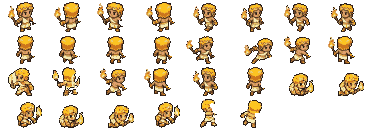
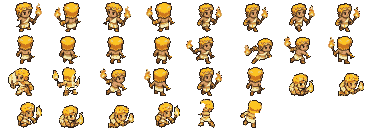
Stop Cedalion looking back every few steps
The artist drew the front poses facing different ways: the first idle and
the first walk frame look left, the rest look right. The walk now leaves
out the left-looking frame, the right-looking idle is the idle and the
other is his glance back, and nothing is mirrored, so the torch stays in
one hand. The sheet's JSON records each frame's facing, and a test checks
every clip but the glance back faces the way he moves.

diff --git a/tools/process_sheet.py b/tools/process_sheet.py
@@ -45,19 +45,22 @@ COLS = 8
 # ---------------------------------------------------------------- Cedalion's hand-made sheet
 
 # (box in the sheet, mirror?, kind) - boxes found by scanning the sheet; mirror normalises facing:
-# front views must look toward screen-right (SE) and back views away up-right (NE). The sheet's
-# front idle and walk poses look toward screen-LEFT (eyes on the left of the face, the ear on the
-# right), so they are mirrored, which also puts the sword on the same side as in the attack
-# frames. Left unmirrored (as on 2026-10-22 morning) he walked one way while looking the other.
+# front views must look toward screen-right (SE) and back views away up-right (NE). The artist was
+# not consistent: of the front poses, the second idle and the last three walk frames look right
+# (ear on the left of the face, eyes right of centre) but the first idle and the first walk frame
+# look left. Mirroring those two would swap the torch to the other hand mid-step, so the walk
+# leaves the first frame out and the left-looking idle is only his glance back ("look"). FACES
+# records which way each pose looks as drawn; the sheet's JSON carries it (after mirroring) so a
+# test can check that every clip faces the way he moves.
 BOXES = {
-    "idle_f": ((60, 50, 280, 222), True, "stand"),
-    "idle_f2": ((380, 50, 590, 222), True, "stand"),
+    "idle_f": ((60, 50, 280, 222), False, "stand"),
+    "idle_f2": ((380, 50, 590, 222), False, "stand"),
     "idle_b": ((640, 50, 880, 222), False, "stand"),
     "idle_b2": ((950, 50, 1190, 222), False, "stand"),
-    "walk_f0": ((15, 275, 182, 429), True, "stand"),
-    "walk_f1": ((191, 274, 320, 430), True, "stand"),
-    "walk_f2": ((327, 274, 458, 430), True, "stand"),
-    "walk_f3": ((462, 274, 596, 430), True, "stand"),
+    "walk_f0": ((15, 275, 182, 429), False, "stand"),
+    "walk_f1": ((191, 274, 320, 430), False, "stand"),
+    "walk_f2": ((327, 274, 458, 430), False, "stand"),
+    "walk_f3": ((462, 274, 596, 430), False, "stand"),
     "walk_b0": ((638, 276, 780, 429), True, "stand"),
     "walk_b1": ((775, 276, 912, 429), True, "stand"),
     "walk_b2": ((912, 276, 1051, 430), True, "stand"),
@@ -66,6 +69,16 @@ BOXES = {
     "atk_f1": ((387, 493, 536, 641), False, "stand"),
     "atk_f2": ((684, 492, 870, 640), False, "stand"),
     "atk_b": ((978, 487, 1163, 640), False, "stand"),
+}
+
+# Which way each pose looks as drawn (before mirroring), seen from the front or the back.
+FACES = {
+    "idle_f": "left", "idle_f2": "right", "idle_b": "right", "idle_b2": "right",
+    "walk_f0": "left", "walk_f1": "right", "walk_f2": "right", "walk_f3": "right",
+    "walk_b0": "left", "walk_b1": "left", "walk_b2": "left", "walk_b3": "left",
+    "atk_f0": "right", "atk_f1": "right", "atk_f2": "right", "atk_b": "right",
+    "roll0": "right", "roll1": "right", "roll2": "right",
+    "block_f": "left", "block_b": "left", "hurt_f": "left", "hurt_b": "right",
 }
 
 # The sword, in sheet pixels before mirroring: the blade's tip and the centre of its crossguard
@@ -110,12 +123,12 @@ BOXES_V2 = {
     "roll0": ((161, 641, 229, 707), False, "stand"),
     "roll1": ((266, 638, 338, 705), False, "stand"),
     "roll2": ((383, 635, 454, 705), False, "stand"),
-    # the front block looks left like the first sheet's front views, so it is mirrored too
+    # the front block looks left, so it is mirrored to face the way he moves
     "block_f": ((698, 626, 771, 704), True, "stand"),
     # the back views hold the sword on the left: mirrored to match the first sheet's back views
     "block_b": ((962, 628, 1042, 704), True, "stand"),
-    # the flinch already holds the sword on our right, like the (mirrored) front views
-    "hurt_f": ((537, 779, 608, 862), False, "stand"),
+    # the flinch looks a little left, with the sword on our right: mirrored like the block
+    "hurt_f": ((537, 779, 608, 862), True, "stand"),
     "hurt_b": ((609, 778, 694, 854), False, "stand"),
 }
 SWORDS_V2 = {
@@ -142,10 +155,12 @@ SHEET_V2 = dict(
 # Animation tags: name -> (frame keys, ms per frame). Facing suffix: _se front, _ne back; the game
 # mirrors them for _sw / _nw.
 TAGS = [
-    ("idle_se", ["idle_f"], 400), ("idle_ne", ["idle_b"], 400),
-    ("look_se", ["idle_f2"], 400), ("look_ne", ["idle_b2"], 400),
-    # stride, pass, stride, pass: two footfalls per cycle, in step with the footstep sounds
-    ("walk_se", ["walk_f2", "walk_f0", "walk_f3", "walk_f1"], 150),
+    # the right-looking idle; now and then he glances back over his shoulder (the left-looking one)
+    ("idle_se", ["idle_f2"], 400), ("idle_ne", ["idle_b"], 400),
+    ("look_se", ["idle_f"], 400), ("look_ne", ["idle_b2"], 400),
+    # stride, pass, stride, pass: two footfalls per cycle, in step with the footstep sounds (the
+    # first walk frame looks the other way, so the other pass frame is used twice)
+    ("walk_se", ["walk_f2", "walk_f1", "walk_f3", "walk_f1"], 150),
     ("walk_ne", ["walk_b1", "walk_b0", "walk_b3", "walk_b2"], 150),
     ("attack_se", ["atk_f0", "atk_f1", "atk_f2"], 100),
     ("attack_ne", ["atk_b"], 300),
@@ -162,7 +177,7 @@ CONFIGS = {
         source=GENERATED / "cedalion_friend_sheet.webp",
         boxes=BOXES, tags=TAGS, swords=SWORDS, arcs=ARCS, angle_from={**ANGLE_FROM, **ANGLE_FROM_V2},
         scale=0.19,  # sheet pixels -> game pixels (~26 px tall, the doc's 16x24 hero plus hair)
-        palette=22, background="paper", torch=True, stills=("idle_f", "idle_b"),
+        palette=22, background="paper", torch=True, stills=("idle_f2", "idle_b"), faces=FACES,
         more=[SHEET_V2],
     ),
 }
@@ -460,6 +475,7 @@ def flame_of(f: Image.Image, side=0):
 def process(name, cfg, preview=None):
     raw = {}
     hands = {}
+    mirrors = {}
     first = None
     # The main sheet, then any extra sheets ("more": their own source, boxes, swords, arcs and
     # scale) that add frames to the same set.
@@ -475,6 +491,7 @@ def process(name, cfg, preview=None):
             if part.get("enhance"):
                 cut = enhance(cut, *part["enhance"])
             tip, guard, hand = swords.get(key, (None, None, None))
+            mirrors[key] = mirror
             if mirror:
                 cut = cut.transpose(Image.FLIP_LEFT_RIGHT)
             bb = cut.getbbox()
@@ -544,6 +561,10 @@ def process(name, cfg, preview=None):
         if k in hands:
             hx, hy, angle = hands[k]
             entry["hand"] = {"x": round(hx - ax), "y": round(hy - ay), "angle": round(angle or 0.0)}
+        drawn = cfg.get("faces", {}).get(k)
+        if drawn:
+            mirrored = mirrors.get(k, False)
+            entry["faces"] = ("left" if drawn == "right" else "right") if mirrored else drawn
         frame_meta.append(entry)
 
     OUT.mkdir(parents=True, exist_ok=True)

diff --git a/docs/dev/POLISH.md b/docs/dev/POLISH.md
@@ -97,19 +97,22 @@ Getting the hackathon demo into shape by 17:00 IST. Log, newest last:
   and top untouched. Storeroom clutter, looks only and placed by hand against the walls
   (`Room.CLUTTER`): burlap grain sacks, plank crates, a coil of rope and spilled grain. Test:
   clutter stands on plain floor clear of cracks, doors, chests and marks. 209 tests pass.
-- 15:26 Bug (Sathvik: "when I move left the character also faces right"): the first sheet's front
-  idle and walk poses look screen-LEFT (eyes on the left of the face, the ear on the right), but
-  were used unmirrored as the screen-right views, so he walked one way looking the other and
-  turned round when he swung. They (and the front block) are mirrored again; every clip now holds
-  the sword on the side he faces. Test: every frame's sword hand is on the facing side and the
-  torch on the other; walking left mirrors the walk.
+- 15:26 Bug (Sathvik: "when I move left the character also faces right", then "he looks back
+  every few frames"): the artist drew the front poses inconsistently. The second idle and the
+  last three walk frames look right (ear on the left, eyes right of centre), but the first idle
+  and the first walk frame look left, so one frame in every step looked back. The walk now skips
+  the first frame (3, 2, 4, 2); the right-looking idle is the idle, and the left-looking one is
+  his occasional glance back. Nothing is mirrored, so the torch stays in one hand.
+  `tools/process_sheet.py` records each frame's facing (`FACES`, written to the JSON as "faces").
+  Test: every frame but the glance back faces the way he moves, the walk keeps the torch in one
+  hand, and walking left mirrors the walk.
 - Sky nits (a Sonnet screenshot tour of every room found them): far islands showed just over the
   back walls in four rooms (the pavilion island looked built on the storerooms' and cistern's
   walls), and Orion was hidden in the statue court and the star shrine. `Atmosphere.skyline()`
   projects the back walls' top edge to the screen; a far island that would peek eases up clear or
   sinks behind the walls, and Orion moves to the nearest open sky (up, then sideways, at 80% if
   tight) clear of the moon and the HUD. Test: from each room's north end Orion clears the walls
-  and no island rests on them. 229 tests pass.
+  and no island rests on them. 231 tests pass.
 
 ; stopped at about 55% of the 5-hour window)
 

diff --git a/AGENT2.md b/AGENT2.md
@@ -34,10 +34,11 @@ stable build: all tests pass.
    - Storeroom clutter, looks only, no collision (`Room.CLUTTER`: sacks, crates, rope,
      `floor_grain`).
 3. This push: two fixes.
-   - Facing bug: the first sheet's front idle and walk frames look screen-left, so they are
-     mirrored again (`BOXES` in `tools/process_sheet.py`). Every clip now holds the sword on the
-     side he faces. Don't un-mirror them: the morning's "walk animation is inverted" fix was the
-     cause.
+   - Facing bug: the artist drew the front poses facing different ways. `idle_f` and `walk_f0`
+     look left; `idle_f2` and `walk_f1`-`walk_f3` look right. Nothing is mirrored now. The walk is
+     `walk_f2, walk_f1, walk_f3, walk_f1`; `idle_se` is `idle_f2` and `look_se` (the glance back)
+     is `idle_f`. `FACES` in `tools/process_sheet.py` records each pose's facing and the JSON
+     carries it per frame ("faces"), so the test catches a left-facing frame in any clip but `look`.
    - Sky: `Atmosphere.skyline()` / `skyline_span()` / `unpeek()`. Far islands that would rest on
      the back walls lift clear or sink behind them; Orion moves to the nearest open sky and
      shrinks to 80% when it's tight. `NightSky.room` / `FarSky.room` are set in `dress()`.
@@ -45,7 +46,7 @@ stable build: all tests pass.
 
 ## Tests
 
-229 pass (`tests/run_tests.gd`). New tests: `test_cedalion_moves`,
+231 pass (`tests/run_tests.gd`). New tests: `test_cedalion_moves`,
 `test_cedalion_faces_where_he_walks`, `test_medallions_on_plain_floor` (also covers cracked walls
 and clutter), `test_sky_clears_walls`.
 
